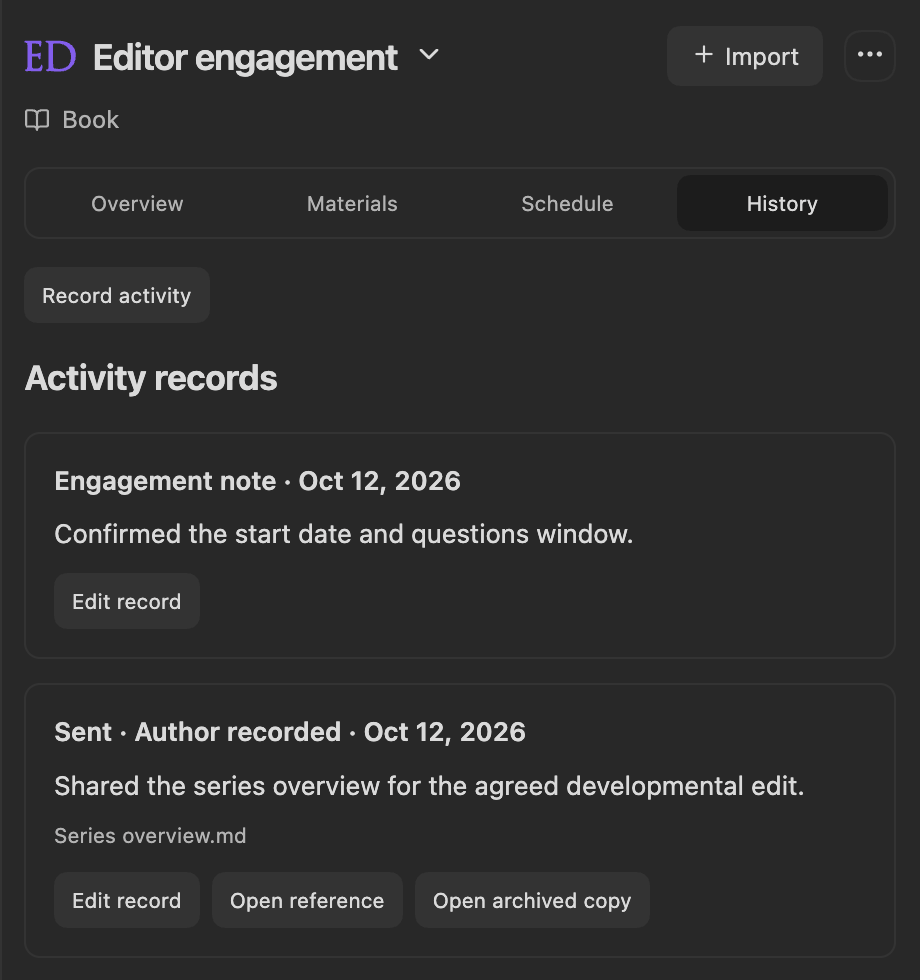
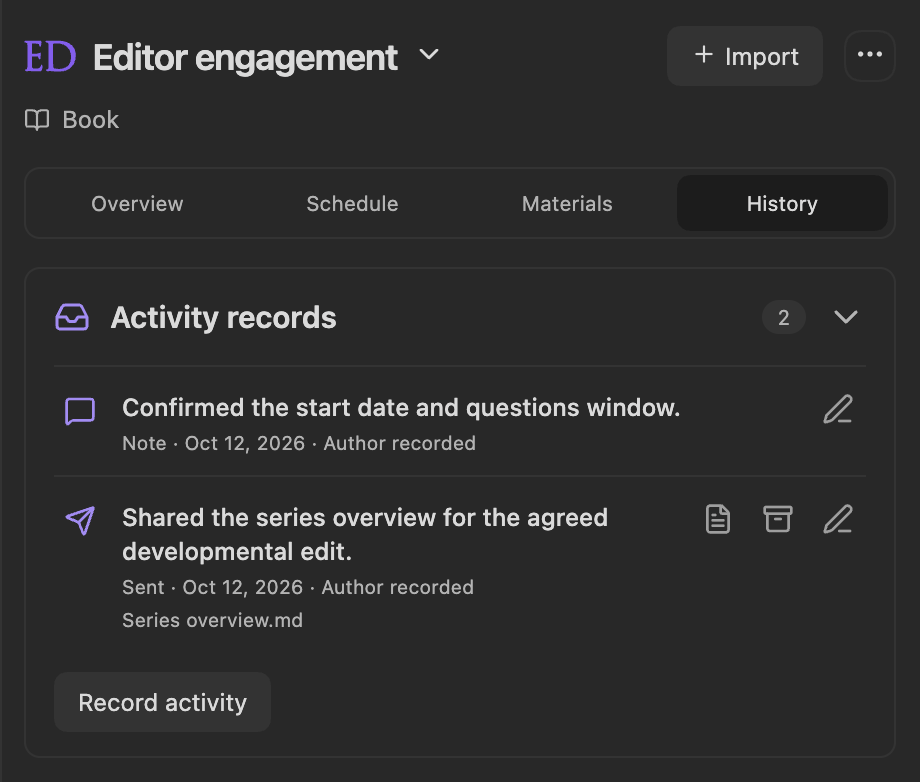
Retake the engagement screenshots for 3.0.2
The overview, History, and schedule images still showed the 3.0.0
layout: a flat overview with a separate next-milestone card, History
records as full cards with text buttons, and Schedule as the third tab.
They are recaptured from the 3.0.2 build in a rebuilt synthetic demo
vault, using the 3.0.0 fixture and capture geometry (460 px sidebar,
2x, dark, crops ending on a complete card under 735 px).

The overview now ends at Next up, since the return card no longer fits
under the height limit. Alt text in the README, Home, and the
engagement page describes what the new images show. The author planner
image was recaptured for comparison and kept, because that panel is
unchanged. Provenance is recorded in WIKI-SCREENSHOTS.md.

diff --git a/docs/engineering/WIKI-SCREENSHOTS.md b/docs/engineering/WIKI-SCREENSHOTS.md
@@ -48,3 +48,36 @@ Native evidence and capture scripts are retained outside the public repository
 in the session's `editorialist-3.0.0` artifact folder. Optional RT synchronization
 is covered by current automated tests and the earlier integration acceptance;
 this refresh did not repeat a live RT date-write round trip.
+
+## 3.0.2 engagement refresh — October 13, 2026
+
+Captured the 3.0.2 build (tag `3.0.2`, commit `044b4e9`) in desktop Obsidian
+1.14.4. The `Editorialist Release Demo` vault was rebuilt from scratch with
+synthetic scenes in `Book/` and documents in `Workshop/`; the engagement and
+author plans were restored from the 3.0.0 capture's saved fixture (Morgan Lee,
+the Nov 30 start, the "Series overview ready" milestone, both activity records,
+and the archived series-overview copy). Three items were added so the redesigned
+overview has content to show: a work queue (two 45–60 minute sessions of
+"Revise the series overview" on Oct 14–15 and a 60–90 minute synopsis session
+on Oct 20), a "Synopsis to Morgan" milestone with its task, and a finished
+"Confirm the edit scope" task. No Author-vault content was used.
+
+Same geometry as 3.0.0: a 460 CSS-pixel right sidebar at 2x device scale, dark
+theme, pointer off the panel, each crop ending 12 px below a complete card and
+no taller than 735 CSS pixels.
+
+Replaced three images whose screens changed in 3.0.2:
+
+- `panel-editor-engagement.png` — ends at **Next up**; the editor return card
+  falls past the height limit.
+- `engagement-history.png` — ends at the complete **Activity records** section;
+  engagement history runs past the limit.
+- `panel-revision-plan.png` — ends at the schedule summary, as before; it now
+  shows Schedule as the second tab. The first queue card starts below the limit.
+
+`panel-author-planner.png` was recaptured for comparison and kept: the goals
+panel is unchanged in 3.0.2 (same layout, 1 CSS pixel of crop rounding).
+The schedule-preview images come from a dialog 3.0.2 did not touch.
+
+Capture scripts and evidence are kept outside the public repository in the
+session scratchpad.

diff --git a/wiki/Editor-Engagement.md b/wiki/Editor-Engagement.md
@@ -1,6 +1,6 @@
 Keep an editor’s agreed dates, personal milestones, tasks, optional reference documents, and activity history together for the active book. Run **Open editor engagement**, or choose **Editor engagement** from the panel’s mode selector. **Open editorial project in workspace** opens the same plan in a full workspace tab.
 
-<p align="center"><img src="images/panel-editor-engagement.png" alt="Editor engagement overview showing the editor, start date, return window, and milestones" width="460"></p>
+<p align="center"><img src="images/panel-editor-engagement.png" alt="Editor engagement overview with the editor, a countdown to the agreed start date, and Next up showing the first queued task and the next milestone" width="460"></p>
 
 ## Create an engagement
 
@@ -37,7 +37,7 @@ See [Revision Plan](Revision-Plan) for estimates, automatic planning, delivery s
 
 Choose **Record activity** to record sent files, received files, or a note. A date and description are required; filenames and a vault reference are optional. Record events that have happened; put future work in the schedule. Records can be corrected later.
 
-<p align="center"><img src="images/engagement-history.png" alt="Engagement history with author-recorded sent activity and notes" width="460"></p>
+<p align="center"><img src="images/engagement-history.png" alt="Activity records with a sent record and a note, each with its kind icon and edit, reference, and archive actions" width="460"></p>
 
 If you explicitly choose to archive the referenced file, Editorialist preserves one saved file, up to 64 MB, under `Editorialist/Engagement history/`. That copy remains independent of later changes to the working document. Live references follow file renames; historical filenames and archived copies preserve the record.
 

diff --git a/README.md b/README.md
@@ -20,7 +20,7 @@ Editorialist turns outside feedback into a controlled revision workflow inside O
 
 Version **3.0.0** adds two planning surfaces. **Editor engagement** keeps an editor’s agreed dates, personal milestones, tasks, optional document references, and activity history together. **Author planner** gives your own writing goals a vault-wide home, with target dates, hard deadlines, document links, and capacity scheduling. Goals can optionally share publishing-stage target dates with Radial Timeline.
 
-<p align="center"><img src="wiki/images/panel-editor-engagement.png" alt="Editor engagement with an editor, agreed dates, return window, and milestones" width="460"> <img src="wiki/images/panel-author-planner.png" alt="Author planner with personal writing goals and target dates" width="460"></p>
+<p align="center"><img src="wiki/images/panel-editor-engagement.png" alt="Editor engagement overview with the editor, a countdown to the agreed start date, and Next up showing the first queued task and the next milestone" width="460"> <img src="wiki/images/panel-author-planner.png" alt="Author planner with personal writing goals and target dates" width="460"></p>
 
 Read the [user manual](https://github.com/EricRhysTaylor/Editorialist/wiki), including [Editor Engagement](https://github.com/EricRhysTaylor/Editorialist/wiki/Editor-Engagement) and [Author Planner](https://github.com/EricRhysTaylor/Editorialist/wiki/Author-Planner).
 

diff --git a/wiki/Home.md b/wiki/Home.md
@@ -40,7 +40,7 @@ The standard Review workflow supports a full set of scene-level editorial moves:
 
 Use the view name beside the Ed logo to switch modes. Book-scoped modes use the active-book header and **Import**. Author planner shows **Across your vault** and **Add goal**.
 
-<p align="center"><img src="images/panel-editor-engagement.png" alt="Editor engagement with agreed dates, return window, and personal milestones" width="460"></p>
+<p align="center"><img src="images/panel-editor-engagement.png" alt="Editor engagement overview with the editor, a countdown to the agreed start date, and Next up showing the first queued task and the next milestone" width="460"></p>
 
 | Mode | Use it for |
 |---|---|
